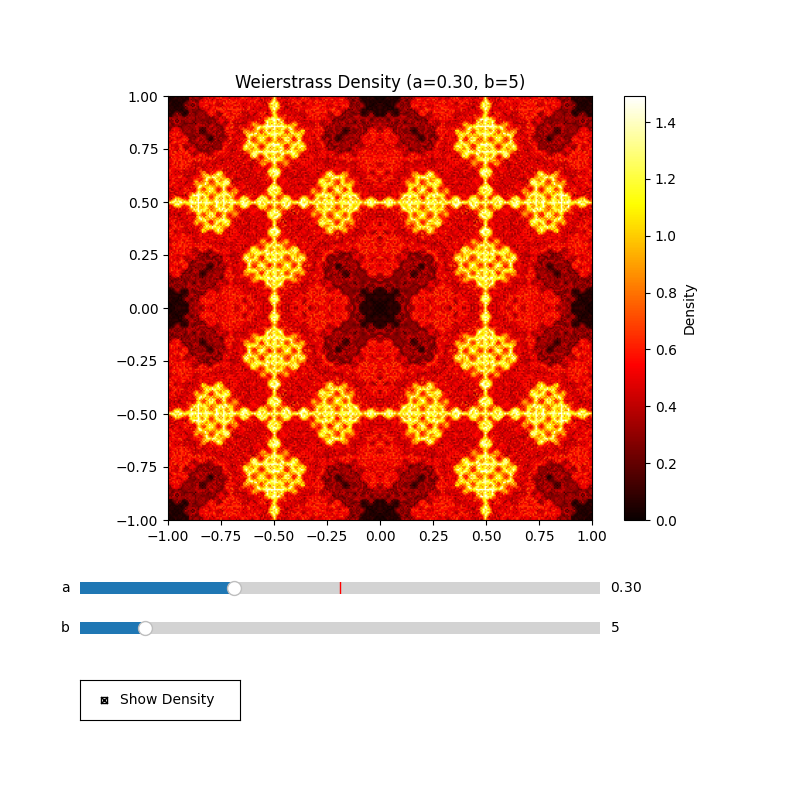
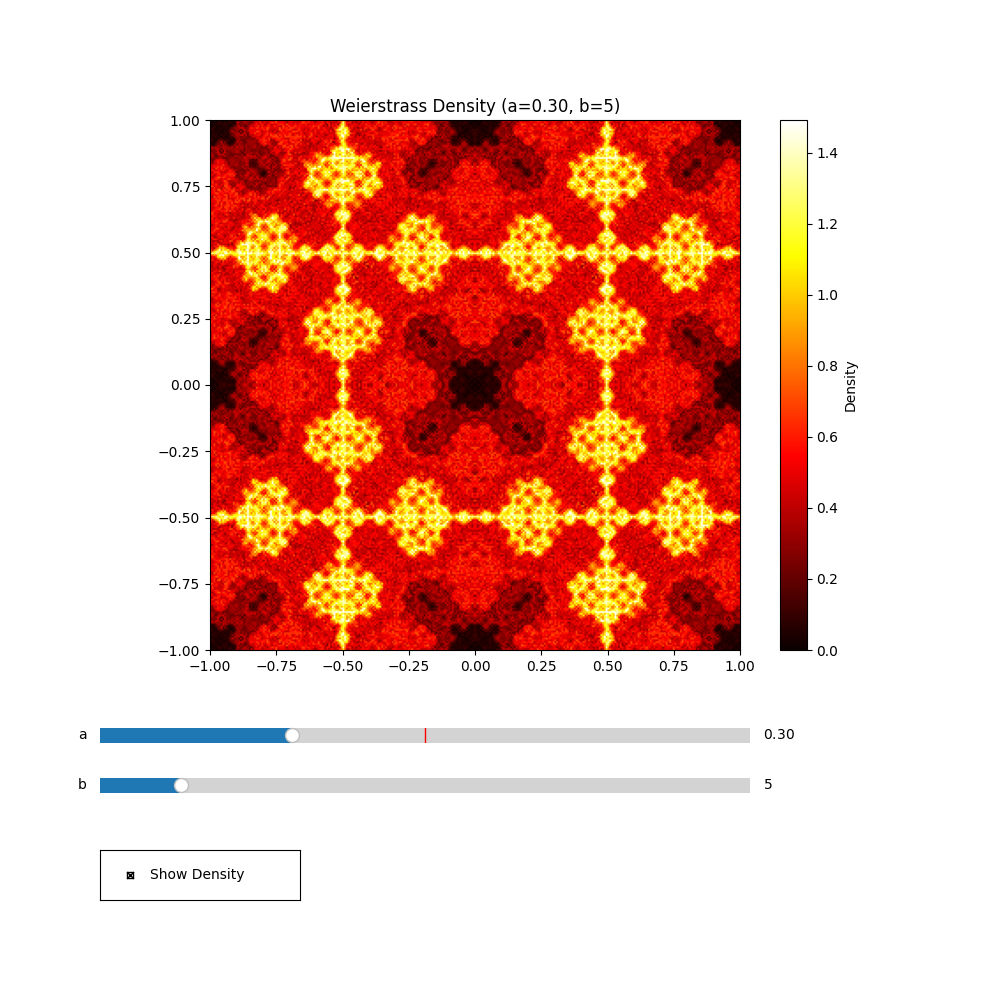
modified:   Fractal/fractal_1.png modified:   Fractal/weierstrass_fractal.py

diff --git a/Fractal/weierstrass_fractal.py b/Fractal/weierstrass_fractal.py
@@ -45,7 +45,7 @@ Z_norm = Z / np.max(np.abs(Z))
 density = compute_density_approx(Z.flatten(), bins).reshape(Z.shape)
 
 # --- Plot setup ---
-fig, ax = plt.subplots(figsize=(8, 8))
+fig, ax = plt.subplots(figsize=(10, 10))
 plt.subplots_adjust(left=0.1, bottom=0.35)
 
 im = ax.imshow(density, extent=(-1, 1, -1, 1), cmap='inferno')
